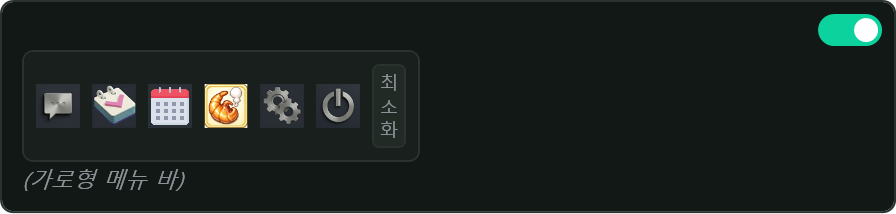
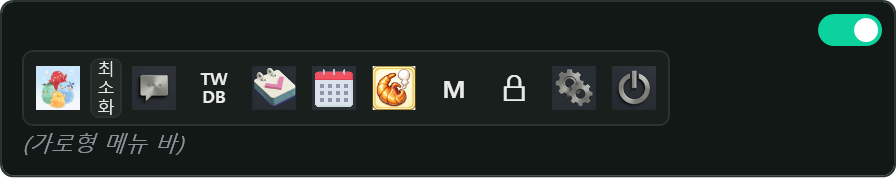
docs: 메뉴 바 도움말을 실제 구성 그대로 재현
- 앱 아이콘/최소화/채팅/TW DB/일일·주간/달력/외치기/M(메모)/잠금/설정/종료
  전체 11개 항목을 실제 순서·아이콘·텍스트로 세로/가로 비교

diff --git a/Services/Diagnostics/HelpShotRenderer.cs b/Services/Diagnostics/HelpShotRenderer.cs
@@ -654,68 +654,118 @@ namespace TWChatOverlay.Services
             return brush;
         }
 
-        /// <summary>메뉴 바 목업: 실제 메뉴 아이콘(채팅/일일주간/달력/외치기/설정/종료)과 최소화 버튼을 세로/가로로 배치.</summary>
+        /// <summary>
+        /// 메뉴 바 목업: 실제 MenuWindow 구성 그대로 —
+        /// 앱 아이콘 / 최소화 / 채팅 / TW DB / 일일·주간 / 달력 / 외치기 / M(메모) / 잠금 / 설정 / 종료.
+        /// </summary>
         private static FrameworkElement MenuBarMock(bool horizontal)
         {
-            string[] iconFiles = { "Chat.png", "DailyWeekly.png", "Calendar.png", "Shout.png", "Setting.png", "Exit.png" };
+            const double cell = 28;
+            var textCol = Color.FromRgb(0xE8, 0xEA, 0xE9);
 
-            var icons = new StackPanel
-            {
-                Orientation = horizontal ? Orientation.Horizontal : Orientation.Vertical,
-                HorizontalAlignment = HorizontalAlignment.Left,
-            };
-            foreach (string file in iconFiles)
+            UIElement PackIcon(string uri)
             {
                 var image = new System.Windows.Controls.Image
                 {
-                    Width = 22,
-                    Height = 22,
+                    Width = cell - 6,
+                    Height = cell - 6,
                     Stretch = Stretch.Uniform,
-                    Margin = new Thickness(3),
                 };
-                try
-                {
-                    image.Source = new BitmapImage(
-                        new Uri($"pack://application:,,,/Data/images/MenuIcon/{file}", UriKind.Absolute));
-                }
-                catch { }
-                icons.Children.Add(image);
+                try { image.Source = new BitmapImage(new Uri(uri, UriKind.Absolute)); } catch { }
+                return Cell(image);
             }
 
-            // 최소화 텍스트 버튼: 세로 바는 가로 글자, 가로 바는 세로 글자
+            UIElement TextIcon(string text, double size, string family = "Malgun Gothic", double lineHeight = 0)
+            {
+                var tb = new TextBlock
+                {
+                    Text = text,
+                    FontSize = size,
+                    FontWeight = FontWeights.Bold,
+                    Foreground = new SolidColorBrush(textCol),
+                    FontFamily = new FontFamily(family),
+                    TextAlignment = TextAlignment.Center,
+                    HorizontalAlignment = HorizontalAlignment.Center,
+                    VerticalAlignment = VerticalAlignment.Center,
+                };
+                if (lineHeight > 0)
+                {
+                    tb.LineHeight = lineHeight;
+                    tb.LineStackingStrategy = LineStackingStrategy.BlockLineHeight;
+                }
+                return Cell(tb);
+            }
+
+            UIElement Cell(UIElement content) => new Border
+            {
+                Width = cell,
+                Height = cell,
+                Margin = new Thickness(1),
+                CornerRadius = new CornerRadius(6),
+                Child = content is FrameworkElement fe ? Center(fe) : content,
+            };
+
+            FrameworkElement Center(FrameworkElement fe)
+            {
+                fe.HorizontalAlignment = HorizontalAlignment.Center;
+                fe.VerticalAlignment = VerticalAlignment.Center;
+                return fe;
+            }
+
+            // 최소화: 세로 바는 가로 글자 낮은 버튼, 가로 바는 세로 글자 좁은 버튼
             var minText = new TextBlock
             {
                 Text = horizontal ? "최\n소\n화" : "최소화",
-                FontSize = 9,
-                LineHeight = 10,
-                Foreground = new SolidColorBrush(SubText),
+                FontSize = 8.5,
+                LineHeight = 9.5,
+                LineStackingStrategy = LineStackingStrategy.BlockLineHeight,
+                Foreground = new SolidColorBrush(textCol),
                 FontFamily = new FontFamily("Malgun Gothic"),
                 TextAlignment = TextAlignment.Center,
                 HorizontalAlignment = HorizontalAlignment.Center,
                 VerticalAlignment = VerticalAlignment.Center,
             };
-            icons.Children.Add(new Border
+            var minButton = new Border
             {
-                Margin = new Thickness(3),
-                Padding = new Thickness(3, 2, 3, 2),
-                CornerRadius = new CornerRadius(3),
+                Width = horizontal ? 16 : cell + 2,
+                Height = horizontal ? cell + 2 : 15,
+                Margin = new Thickness(1, horizontal ? 1 : 2, 1, horizontal ? 1 : 2),
+                CornerRadius = new CornerRadius(4),
                 Background = new SolidColorBrush(Color.FromRgb(0x22, 0x2A, 0x26)),
                 BorderBrush = new SolidColorBrush(BorderCol),
                 BorderThickness = new Thickness(1),
                 VerticalAlignment = VerticalAlignment.Center,
                 HorizontalAlignment = HorizontalAlignment.Center,
                 Child = minText,
-            });
+            };
 
+            var items = new StackPanel
+            {
+                Orientation = horizontal ? Orientation.Horizontal : Orientation.Vertical,
+                HorizontalAlignment = HorizontalAlignment.Left,
+            };
+            items.Children.Add(PackIcon("pack://application:,,,/favicon.ico"));
+            items.Children.Add(minButton);
+            items.Children.Add(PackIcon("pack://application:,,,/Data/images/MenuIcon/Chat.png"));
+            items.Children.Add(TextIcon("TW\nDB", 8.5, lineHeight: 9));
+            items.Children.Add(PackIcon("pack://application:,,,/Data/images/MenuIcon/DailyWeekly.png"));
+            items.Children.Add(PackIcon("pack://application:,,,/Data/images/MenuIcon/Calendar.png"));
+            items.Children.Add(PackIcon("pack://application:,,,/Data/images/MenuIcon/Shout.png"));
+            items.Children.Add(TextIcon("M", 12));
+            items.Children.Add(TextIcon("", 13, family: "Segoe MDL2 Assets"));
+            items.Children.Add(PackIcon("pack://application:,,,/Data/images/MenuIcon/Setting.png"));
+            items.Children.Add(PackIcon("pack://application:,,,/Data/images/MenuIcon/Exit.png"));
+
+            // 실제 메뉴 바처럼 불투명한 어두운 판
             var bar = new Border
             {
                 Background = new SolidColorBrush(Color.FromRgb(0x18, 0x1F, 0x1C)),
                 BorderBrush = new SolidColorBrush(BorderCol),
                 BorderThickness = new Thickness(1),
                 CornerRadius = new CornerRadius(5),
-                Padding = new Thickness(3),
+                Padding = new Thickness(2),
                 HorizontalAlignment = HorizontalAlignment.Left,
-                Child = icons,
+                Child = items,
             };
             var stack = new StackPanel();
             stack.Children.Add(bar);
